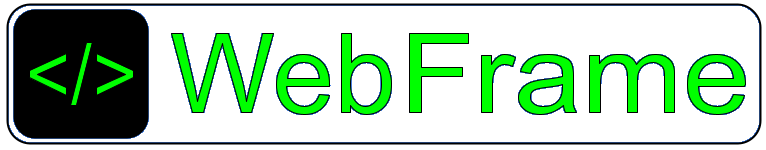
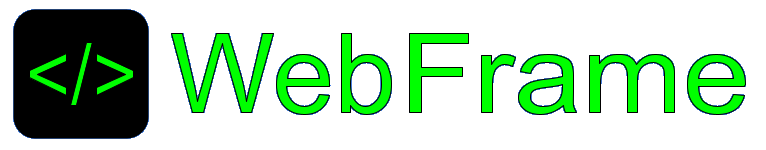
trying SVG

Changed region(s): [[0.0, 0.0, 1.0, 0.9867]]

diff --git a/README.md b/README.md
@@ -1,4 +1,4 @@
-![project logo](assets/LogoForGithub.png)
+![project logo](assets/WebFrameCroppedTransparent.svg)
 
 Cross-platform runtime for web apps.
 
